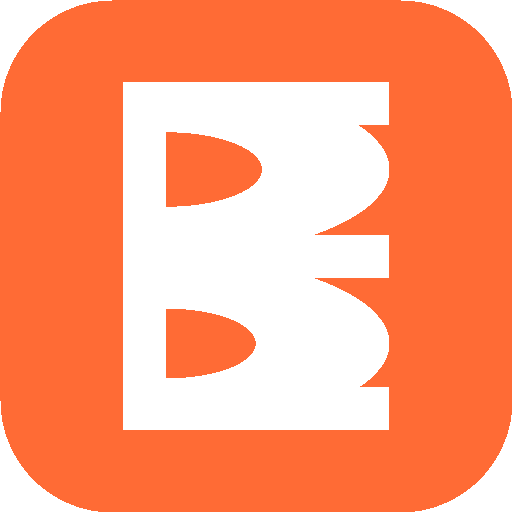
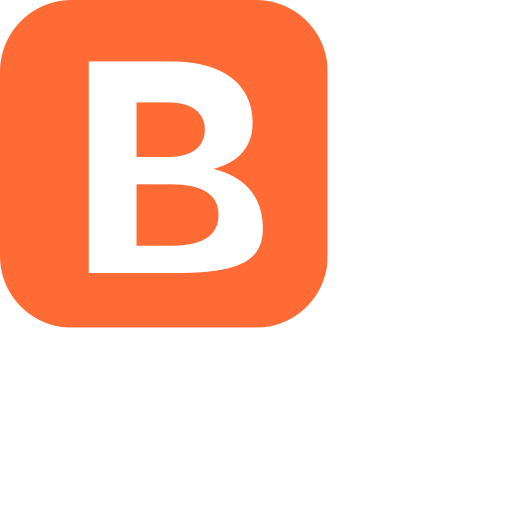
アイコン刷新＋ping エンドポイント追加
- favicon.svg: パスベースのクリーンなB文字デザインに刷新
  （テキスト要素→アウトライン化で環境依存なし）
- icon-192.png / icon-512.png: 新デザインから再生成
- /ping エンドポイント追加（UptimeRobot等からの監視用）

diff --git a/app.py b/app.py
@@ -274,6 +274,12 @@ def status():
     return jsonify({"configured": bool(key)})
 
 
+@app.route("/ping")
+def ping():
+    """Render無料プランのスリープ防止用エンドポイント（外部監視サービスからpingされる）"""
+    return "ok", 200
+
+
 @app.route("/api/setup", methods=["POST"])
 def setup():
     data = request.get_json()
